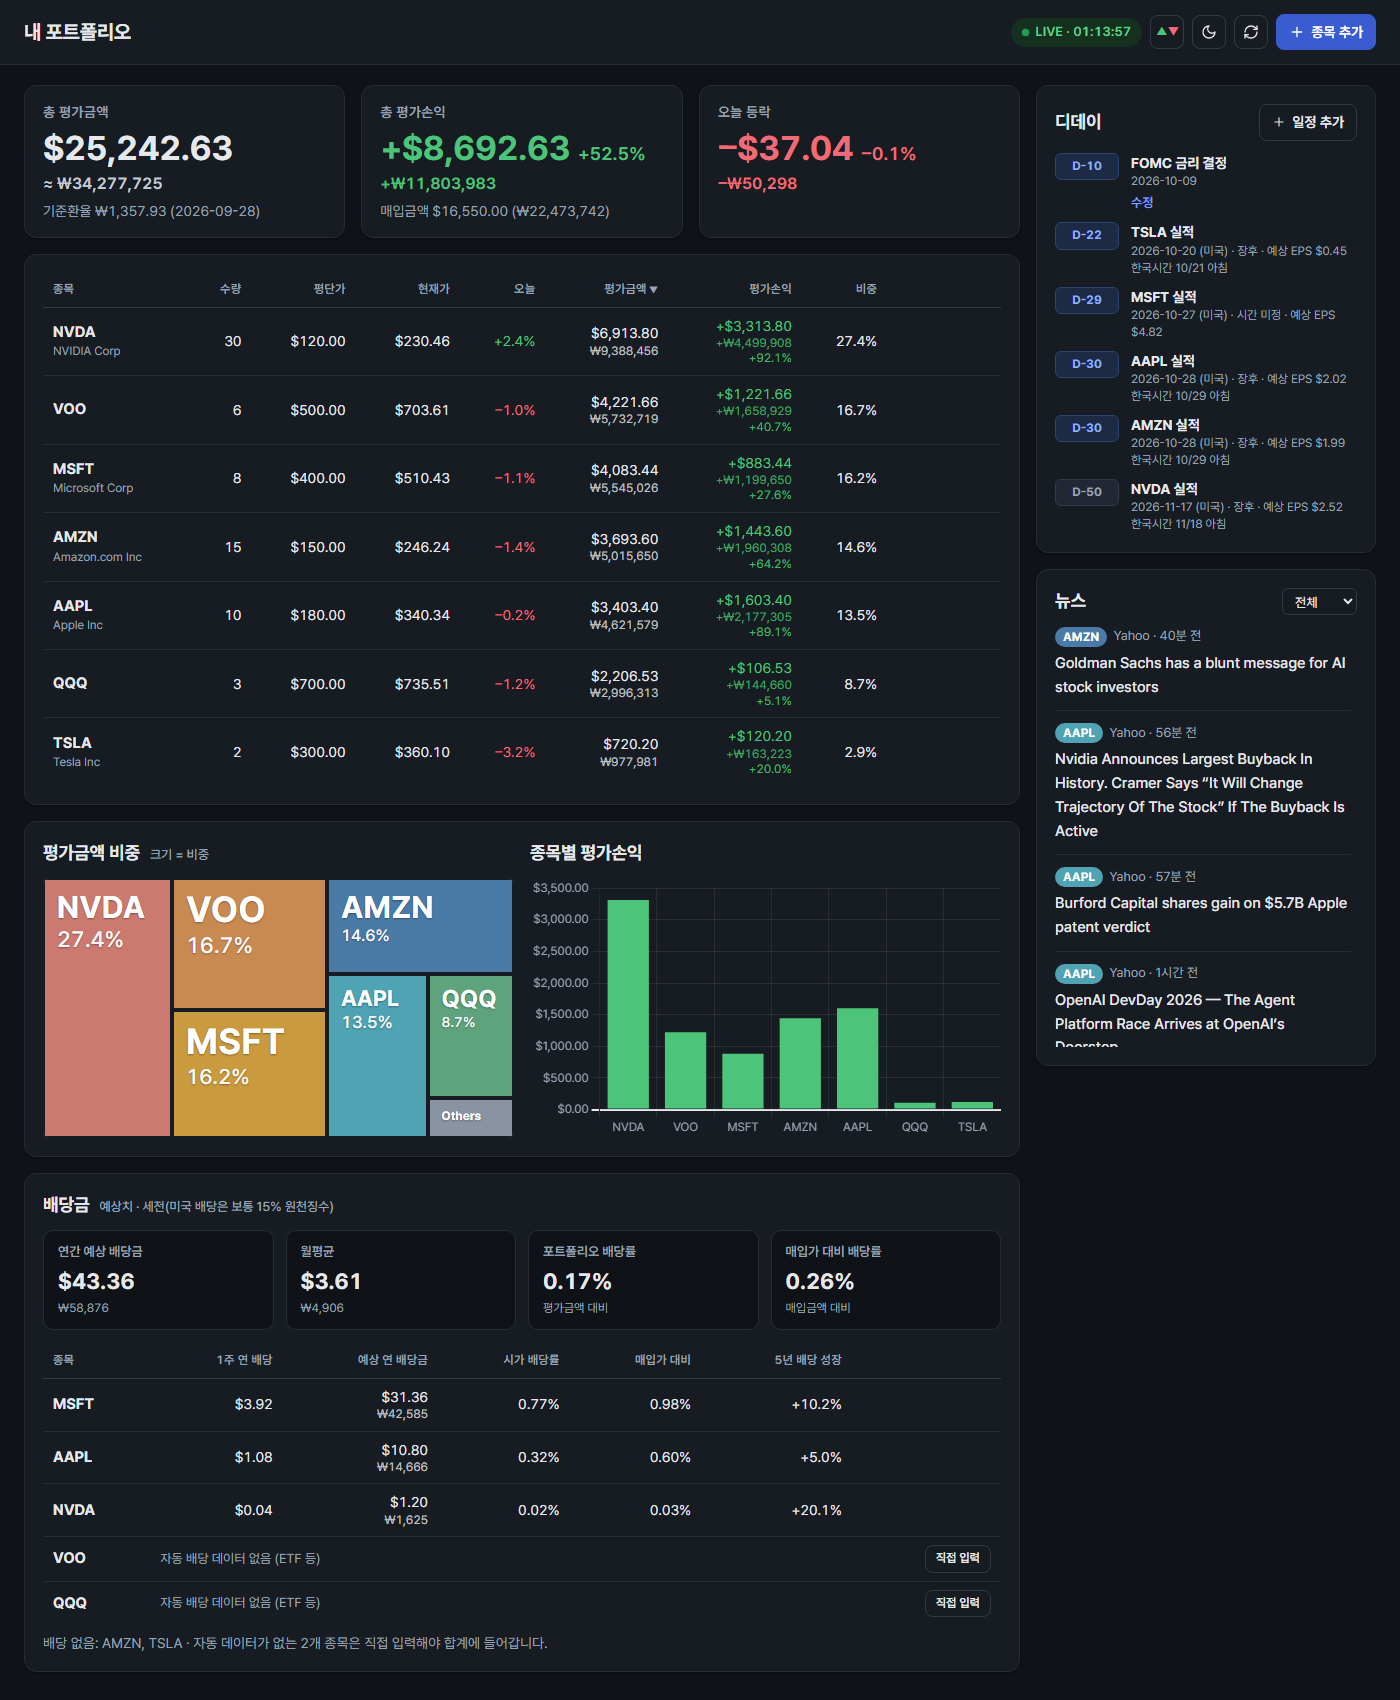
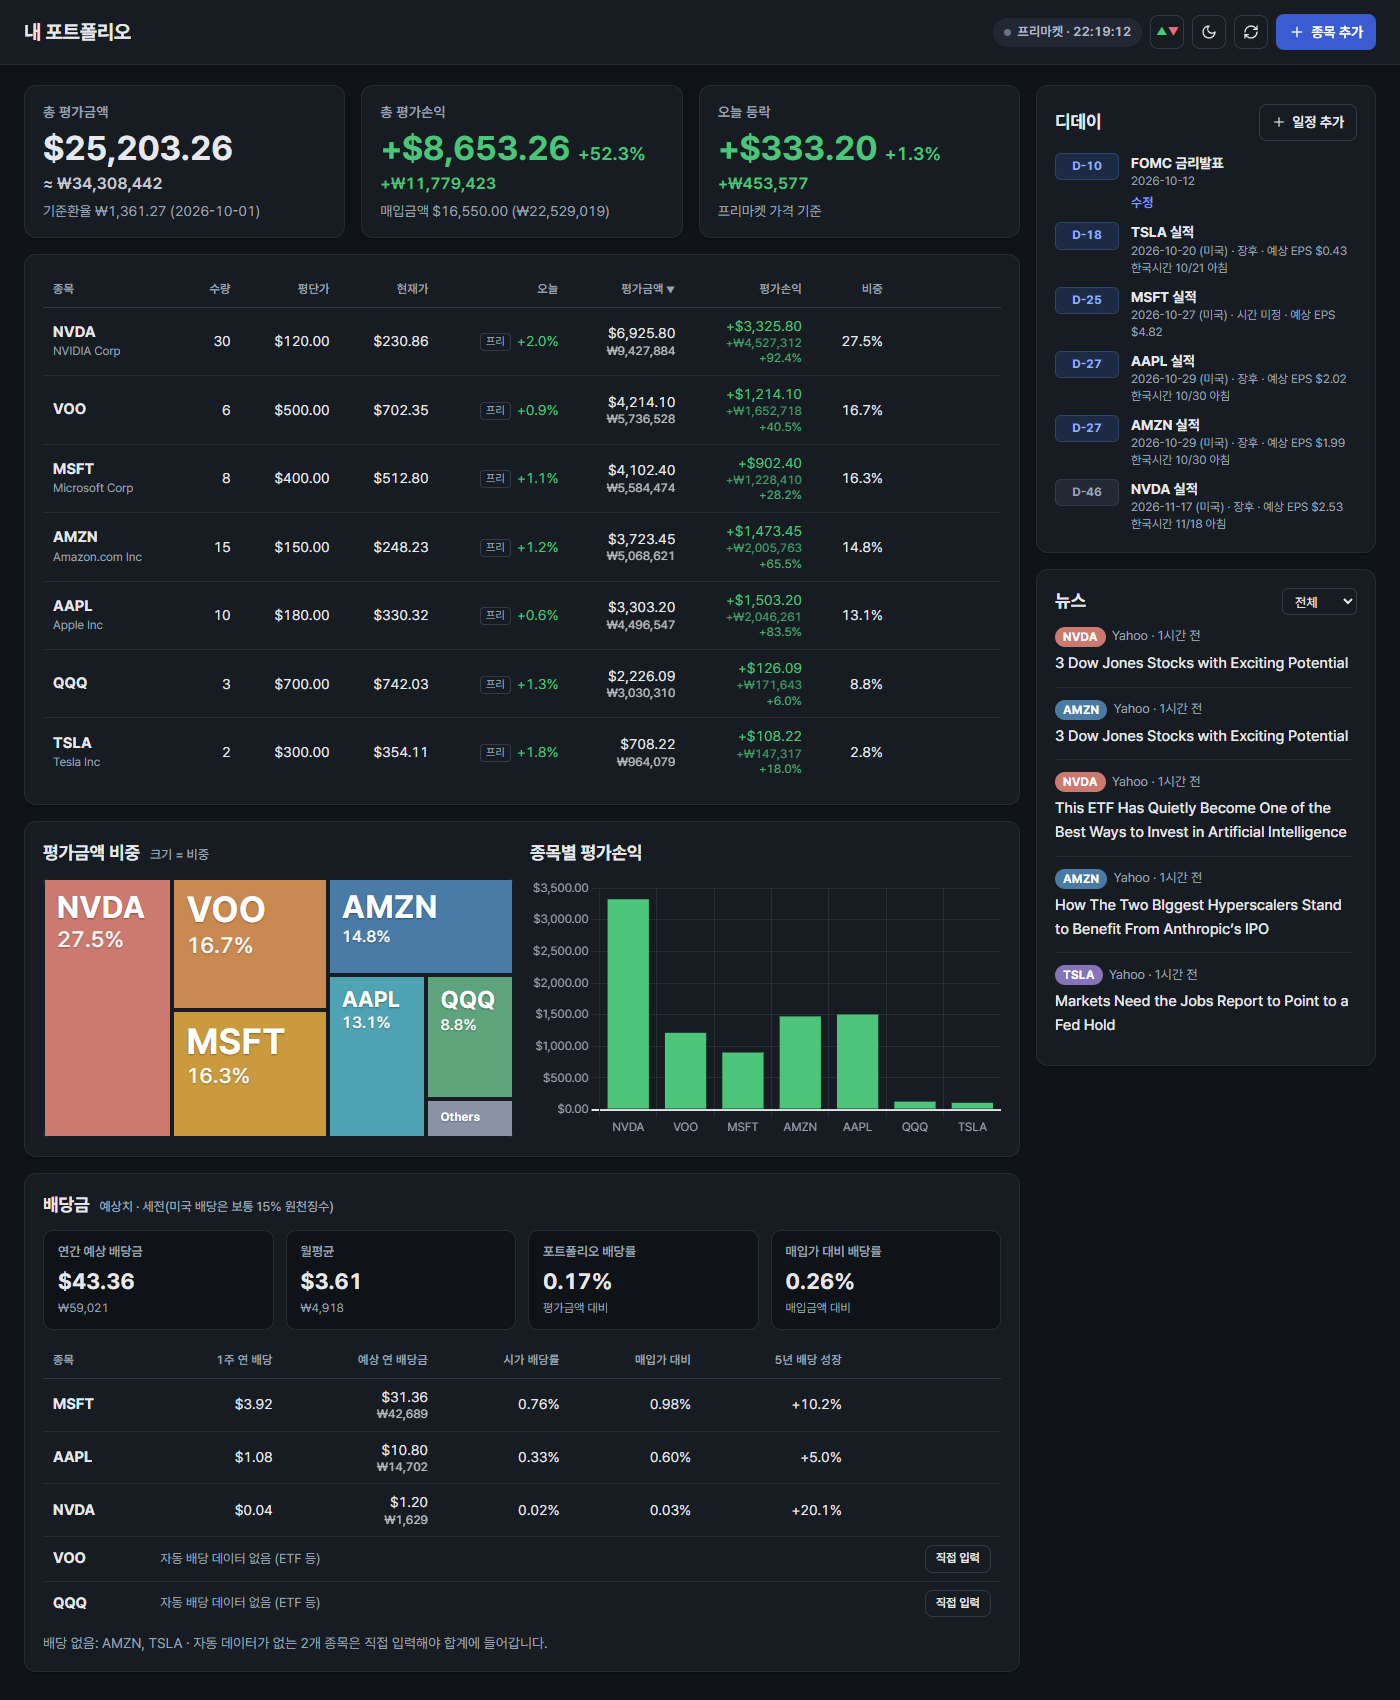
docs: retake README screenshots during pre-market
Shows the 프리마켓 badge, the 프리 tags in the 오늘 column and the summary's pre-market day change. Same sample portfolio and 1400x1700 size as before.

diff --git a/README.md b/README.md
@@ -4,7 +4,7 @@
 
 ![대시보드 화면: 요약 카드, 보유 종목 표, 평가금액 비중 트리맵, 종목별 평가손익 차트, 배당금, 디데이, 뉴스](docs/screenshot.png)
 
-<sub>예시 포트폴리오로 찍은 화면입니다. 시세·배당·실적 일정·뉴스는 촬영 시점(미국 2026-09-29 장중)의 실제 데이터입니다.</sub>
+<sub>예시 포트폴리오로 찍은 화면입니다. 시세·배당·실적 일정·뉴스는 촬영 시점(미국 2026-10-02 프리마켓)의 실제 데이터이며, '오늘' 등락은 프리마켓 가격 기준입니다.</sub>
 
 ![다크 모드와 미국식 등락 색(상승 초록·하락 빨강)으로 본 대시보드 화면](docs/screenshot-dark.png)
 
